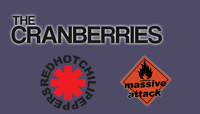
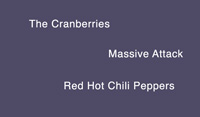
timeline-mobile

Changed region(s): [[0.18, 0.4211, 0.93, 0.9737], [0.03, 0.1053, 0.84, 0.3947]]

diff --git a/src/components/pages/timeline.jsx b/src/components/pages/timeline.jsx
@@ -19,7 +19,10 @@ const Timeline = () => {
             <div class="content-border">
               <h2 class="year-header">2010 - 2012</h2>
               <h3 class="concerts-header">Romania</h3>
-              <div class="concerts-image" />
+              <div class="concerts-image">
+                The Cranberries <span>&bull;</span> Massive Attack
+                <span>&bull;</span> Red Hot Chili Peppers
+              </div>
               <div class="concerts-container">
                 <p>
                   <span style={{ paddingLeft: 0 }} class="fourstars-concert">
@@ -39,7 +42,17 @@ const Timeline = () => {
             <div class="content-border">
               <h2 class="year-header">2013</h2>
               <h3 class="concerts-header">Rock Werchter</h3>
-              <div class="concerts-image" />
+              <div class="concerts-image">
+                Balthazar<span>&bull;</span> Biffy Clyro
+                <span>&bull;</span> The National<span>&bull;</span> Sigur Ros
+                <span>&bull;</span> Netsky<span>&bull;</span> The Script
+                <span>&bull;</span> John Legend<span>&bull;</span> Kings of Leon
+                <span>&bull;</span> Blur<span>&bull;</span> Tame Impala
+                <span>&bull;</span> Nick Cave<span>&bull;</span> Rammstein
+                <span>&bull;</span> Band of Horses<span>&bull;</span> Of
+                Monsters and Men
+                <span>&bull;</span> Depeche Mode<span>&bull;</span> Editors
+              </div>
               <div class="concerts-container">
                 <span style={{ paddingLeft: 0 }} class="threestars-concert">
                   Balthazar
@@ -83,7 +96,10 @@ const Timeline = () => {
             <div class="content-border">
               <h2 class="year-header">2015</h2>
               <h3 class="concerts-header">Rock Werchter</h3>
-              <div class="concerts-image" />
+              <div class="concerts-image">
+                The Cranberries <span>&bull;</span> Massive Attack
+                <span>&bull;</span> Red Hot Chili Peppers
+              </div>
               <div class="concerts-container">
                 <span style={{ paddingLeft: 0 }} class="threestars-concert">
                   Chet Faker
@@ -121,7 +137,10 @@ const Timeline = () => {
             <div class="content-border">
               <h2 class="year-header">2016</h2>
               <h3 class="concerts-header">Nos Alive</h3>
-              <div class="concerts-image" />
+              <div class="concerts-image">
+                The Cranberries <span>&bull;</span> Massive Attack
+                <span>&bull;</span> Red Hot Chili Peppers
+              </div>
               <div class="concerts-container">
                 <span style={{ paddingLeft: 0 }} class="onestar-concert">
                   The 1975
@@ -155,7 +174,10 @@ const Timeline = () => {
             <div class="content-border">
               <h2 class="year-header">2017</h2>
               <h3 class="concerts-header">Rock Werchter</h3>
-              <div class="concerts-image" />
+              <div class="concerts-image">
+                The Cranberries <span>&bull;</span> Massive Attack
+                <span>&bull;</span> Red Hot Chili Peppers
+              </div>
               <div class="concerts-container">
                 <span style={{ paddingLeft: 0 }} class="threestars-concert">
                   Cigarettes After Sex
@@ -205,7 +227,10 @@ const Timeline = () => {
             <div class="content-border">
               <h2 class="year-header">2018</h2>
               <h3 class="concerts-header">Primavera Sound</h3>
-              <div class="concerts-image" />
+              <div class="concerts-image">
+                The Cranberries <span>&bull;</span> Massive Attack
+                <span>&bull;</span> Red Hot Chili Peppers
+              </div>
               <div class="concerts-container">
                 <span style={{ paddingLeft: 0 }} class="fourstars-concert">
                   Spiritualized
@@ -271,7 +296,10 @@ const Timeline = () => {
             <div class="content-border">
               <h2 class="year-header">2018</h2>
               <h3 class="concerts-header">Rock Werchter</h3>
-              <div class="concerts-image" />
+              <div class="concerts-image">
+                The Cranberries <span>&bull;</span> Massive Attack
+                <span>&bull;</span> Red Hot Chili Peppers
+              </div>
               <div class="concerts-container">
                 <span style={{ paddingLeft: 0 }} class="fourstars-concert">
                   Gang of Youths

diff --git a/src/components/pages/timeline.css b/src/components/pages/timeline.css
@@ -400,16 +400,17 @@
 
   .concerts-image {
     display: block;
-    max-width: 200px;
-    height: 117px;
-    background: url("../../images/romania-concerts-sm.jpg") no-repeat;
+    width: 100%;
     text-align: center;
     margin: 0 auto;
+    color: black!important;
+    font-size: 0.6em;
+    padding: 5px 5px 10px 5px;
   }
 
   .year-header {
     font-weight: 900;
-    font-size: 1.7em;
+    font-size: 1.1em;
     color: #f8f3ec;
     text-align: center;
     margin-bottom: 0.5em;
@@ -417,7 +418,7 @@
   
   .concerts-header {
     font-weight: 900;
-    font-size: 1.3em;
+    font-size: 1em;
     color: #e4563e;
     text-align: center;
     margin-bottom: 1em;
@@ -551,7 +552,4 @@
     z-index: 1;
     background: url("../../images/rockwerchter2015logo-mob.jpg") no-repeat;
   }
-
-  
-
 }

diff --git a/src/components/header.css b/src/components/header.css
@@ -150,7 +150,9 @@ a.utility-linka:active {
   color: white !important;
 }
 
-/* MEDIA SCREENS */
+/*****************
+ * MEDIA SCREENS *
+ *****************/
 
 @media screen and (max-width: 900px) and (min-width: 500px) {
   .header-image {
